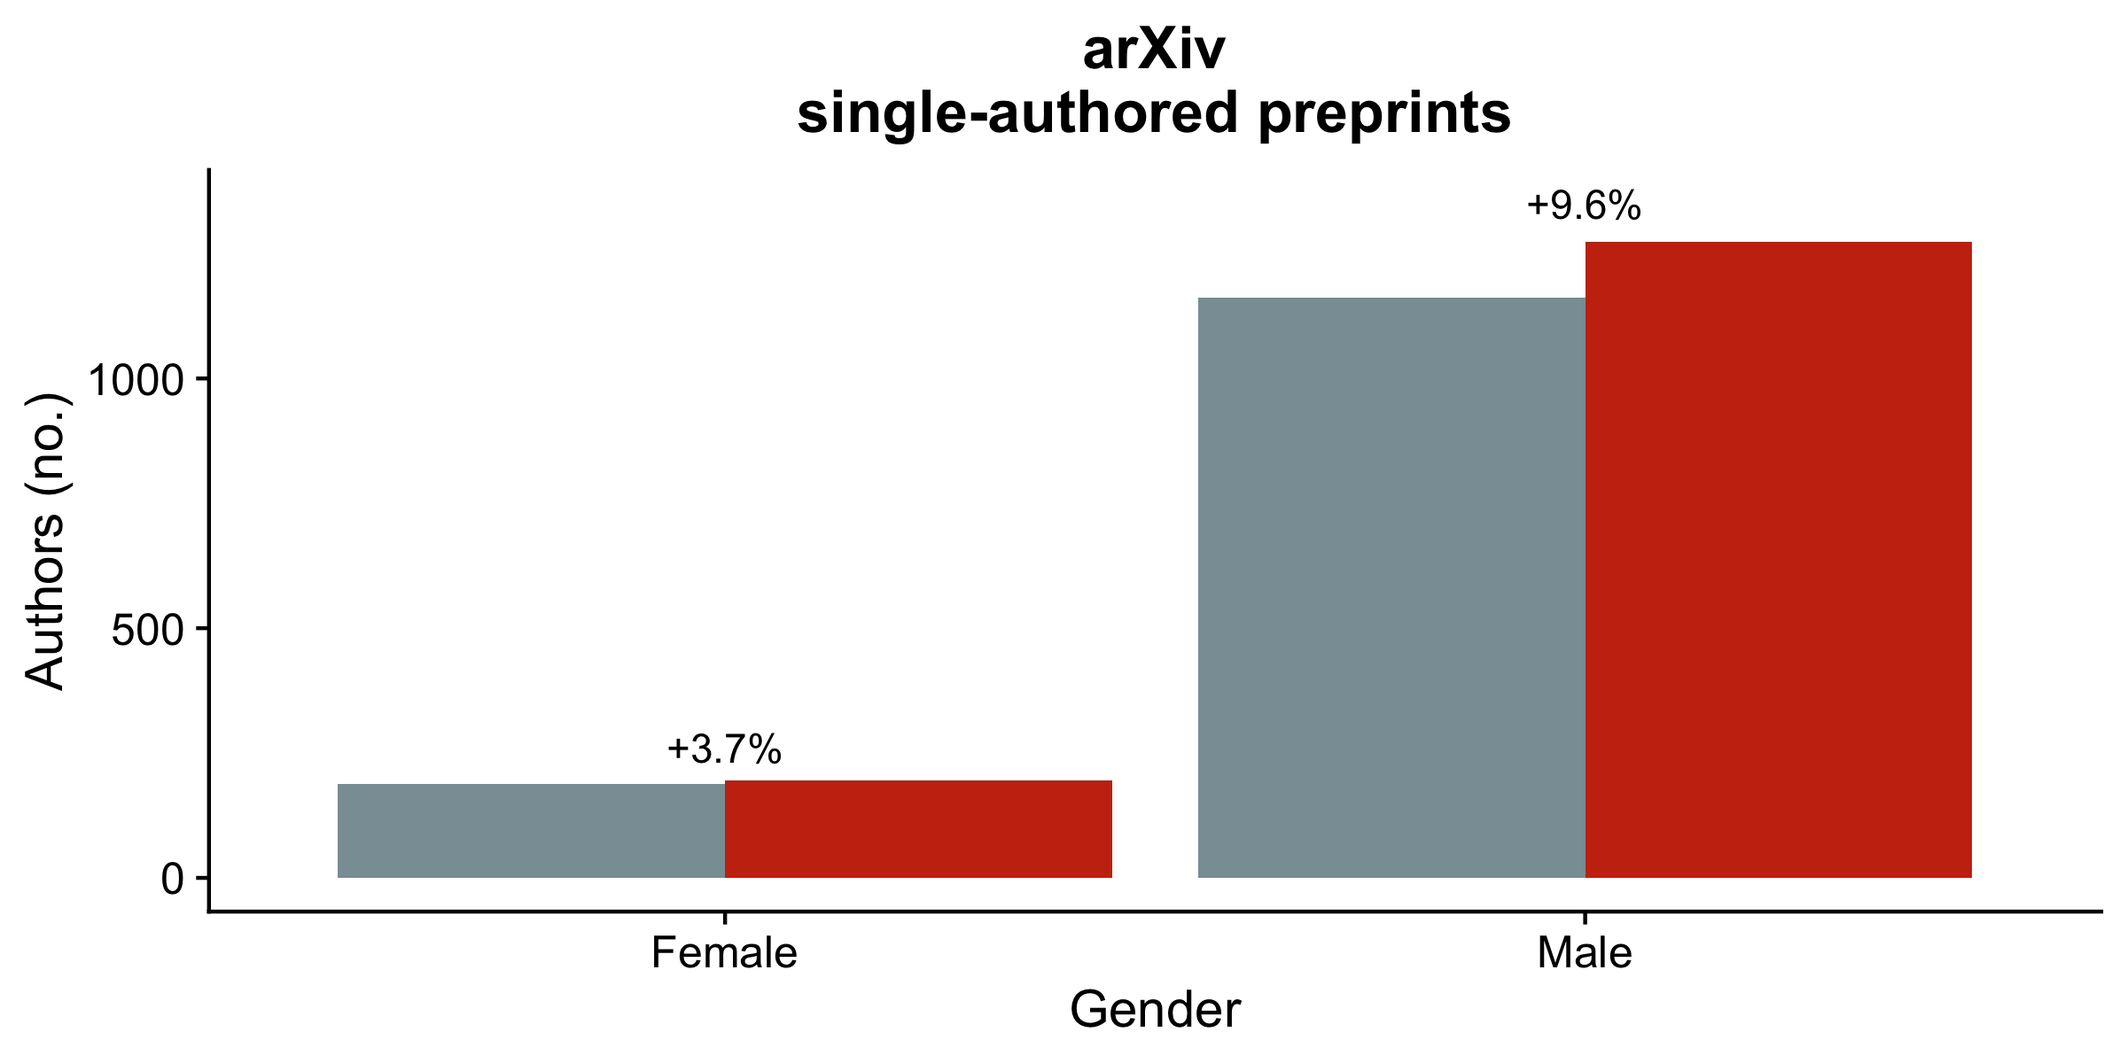
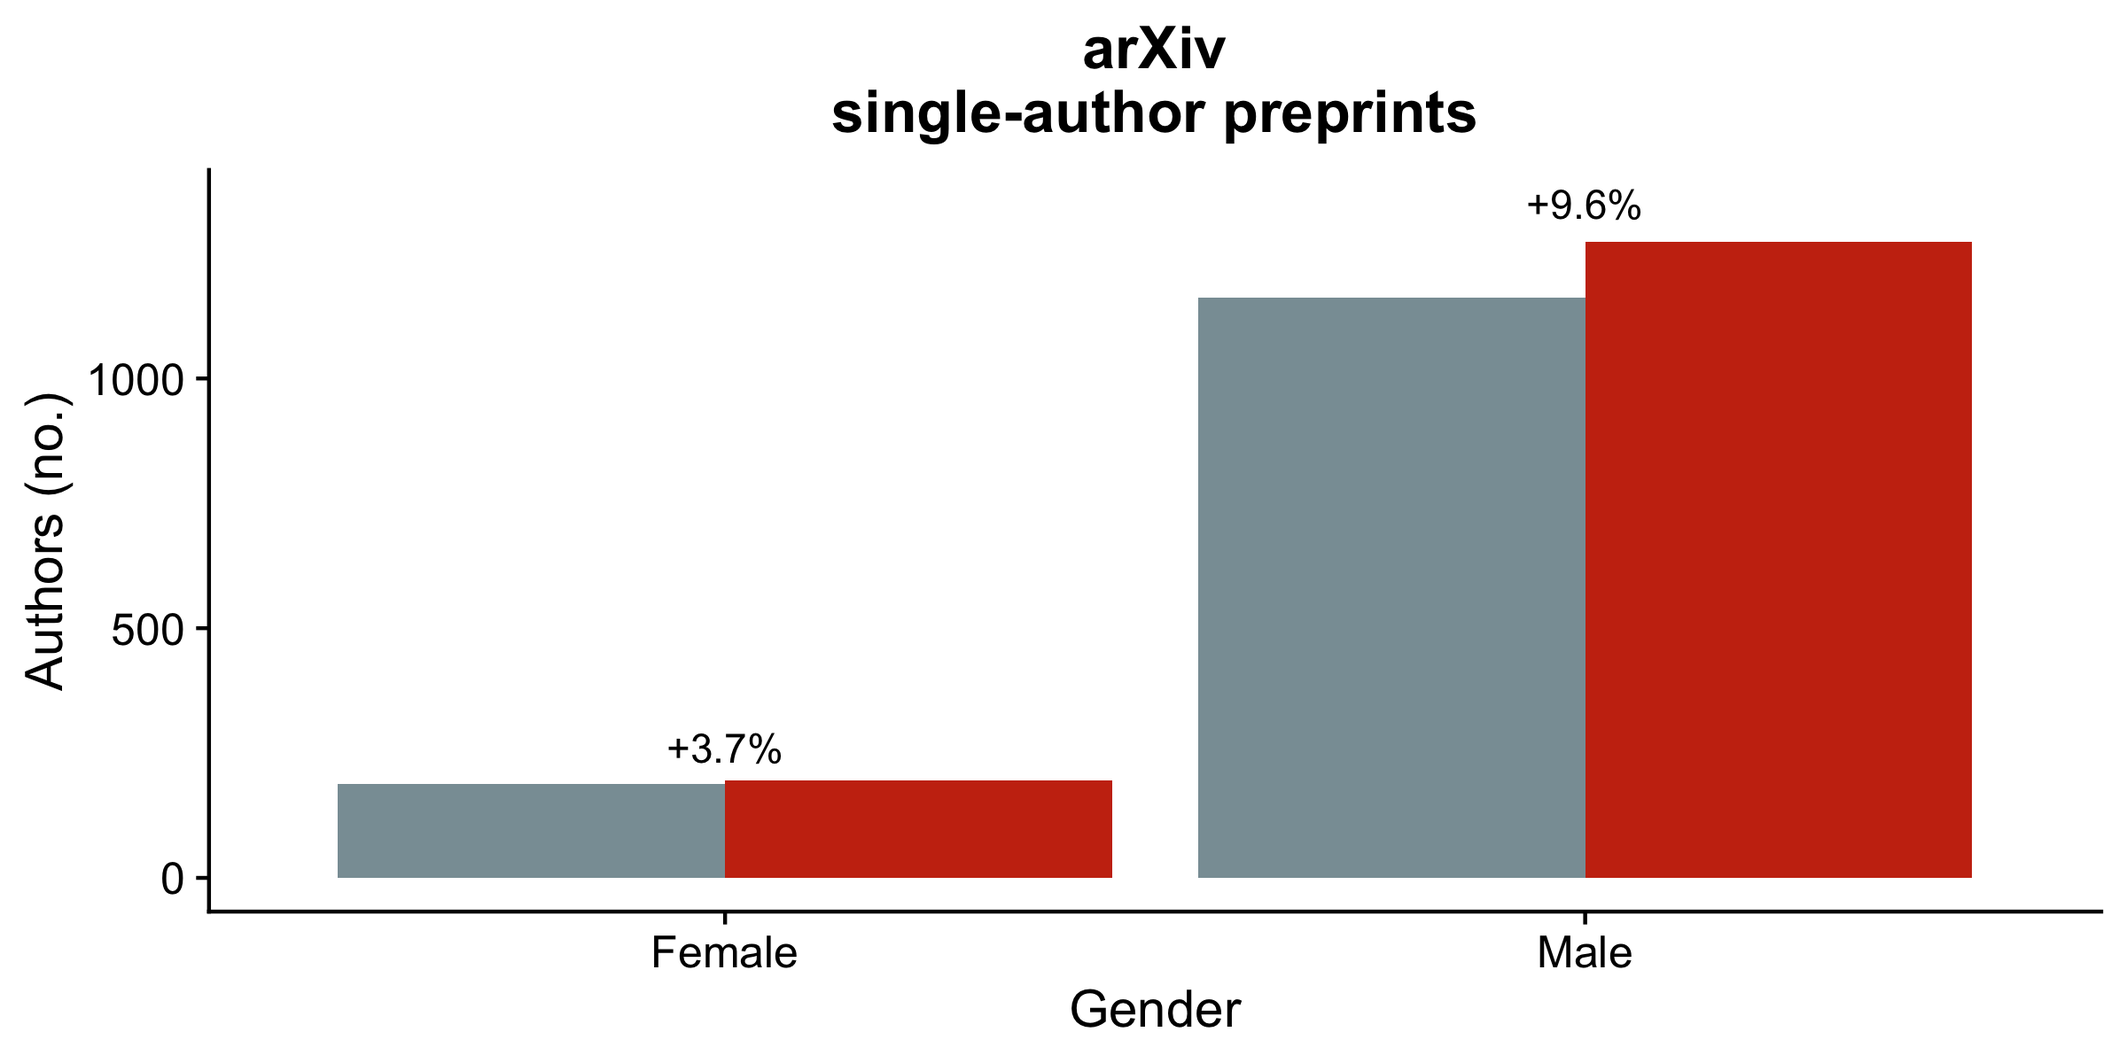
Commit from RStudio

Changed region(s): [[0.375, 0.0617, 0.7188, 0.1542]]

diff --git a/README.md b/README.md
@@ -22,7 +22,7 @@ I used these packages:
 
 ``` r
 #Load packages
-library(tidyverse) #includes ggplot2, dplyr, readr, stringr, 
+library(tidyverse) #includes ggplot2, dplyr, readr, stringr
 library(knitr)
 library(cowplot)
 library(gender)
@@ -81,7 +81,7 @@ df.2020 <- read.csv("Data/arxiv_2020_data.csv") #Read in data
 df.2019 <- read.csv("Data/arxiv_2019_data.csv")
 df.full <- rbind(df.2019, df.2020) #Combine in one dataframe
 
-#Next combine data for month-by-month comparison
+#Next combine data for early 2020 comparison
 df.early2020 <- read.csv("Data/arxiv_early2020_data.csv")
 df.update <- read.csv("Data/arxiv_update2020_data.csv")
 df.update.2 <- read.csv("Data/arxiv_update2020_2_data.csv")
@@ -89,11 +89,11 @@ df.all2020 <- rbind(df.2020, df.early2020, df.update, df.update.2) #Early 2020 d
 
 split.names <- function(x){strsplit(as.character(x), "|", fixed=TRUE)} #Function to split strings of author names
 
-#For the year over year dataset
+#For the year-over-year dataset
 df.full$split.names <- lapply(df.full$authors, split.names) #Apply function
 
 all_first_names <- word(unlist(df.full$split.names),1) #Make a list of all author first names
-gender <- gender(all_first_names, method = "ssa") #Assign gender
+gender <- gender(all_first_names, method = "ssa") #Predict gender
 gender <- unique(gender[ , c(1,2,4)]) #Keep only unique names
 
 #This loop is an inelegant way of counting the number of male and female authors for each paper
@@ -109,7 +109,7 @@ for(i in 1:length(df.full$authors)){
 df.full.output <- as.data.frame(apply(df.full,2,as.character)) 
 write.csv(df.full.output, "Data/arxiv_full_gender.csv") #Save data
 
-#Same for the month-over-month dataset for early 2020
+#Same for the early 2020 dataset
 df.all2020$split.names <- lapply(df.all2020$authors, split.names)
 
 tmp <- NULL
@@ -129,7 +129,8 @@ df.all2020.output <- as.data.frame(apply(df.all2020,2,as.character))
 write.csv(df.all2020.output, "Data/arxiv_all2020_gender.csv") #Save data
 ```
 
-Next, I calculated some summary statistics for the arXiv dataset.
+Next, I calculated some summary statistics for the arXiv dataset I
+assembled.
 
 ``` r
 df.full <- read.csv("Data/arxiv_full_gender.csv") #Read in data
@@ -147,24 +148,29 @@ all.arxiv <- all.arxiv[!duplicated(all.arxiv), ] #Remove duplicates
 total.preprints <- length(all.arxiv$id) #Total number of preprints
 total.authors <- sum(all.arxiv$author.n) #Total number of authors
 total.authors.with.gender <- sum(all.arxiv$male.n+all.arxiv$female.n) #Total number of authors with gender inferred
-per.gender <- round(total.authors.with.gender/total.authors*100, 1) #Percent of authors with gender
+per.gender <- round((total.authors.with.gender/total.authors)*100, 1) #Percent of authors with gender
 
-year.arxiv.preprints <- length(df.full$"id") #Preprints for year-over-year comparison
+year.arxiv.preprints <- length(df.full$"id") #Total number of preprints for year-over-year comparison
 year.arxiv.authors <- sum(df.full[, "male.n"]+df.full[, "female.n"]) #Authors with gender inferred for year-over-year comparison
 ```
 
 There are 83118 preprints in the full arXiv dataset, with a total of
 399769 non-unique authors. I inferred the gender of 192332 authors, or
-48.1%, with the rest omitted from subsequent analyses.
+48.1%, with the rest omitted from subsequent analyses. This a lower
+success rate for predicting author gender for the arXiv dataset than for
+the bioRxiv dataset (see below), reflecting the fact that arXiv
+preprints are more likely to list large consortia as authors (e.g., CMS
+Collaboration), have authors who provide only first initials, or have
+authors who have names not in the U.S. Social Security names database.
 
 For just the comparison of March 15-April 15, 2020 with the same dates
 in 2019, there are 28711 arXiv preprints with 67309 authors for whom I
 inferred
 gender.
 
-### Total numbers of arXiv preprint authors in Mar/Apr 2020 compared to Mar/Apr 2019, by gender
+### Comparing arXiv preprint authors between Mar/Apr 2019 and Mar/Apr 2020, by gender
 
-How many male versus female authors of preprints were there in Mar/Apr,
+How many male versus female authors of preprints were there in Mar/Apr
 2020, compared to the same dates last year? Note: this is not the number
 of unique authors; it includes authors who submitted multiple
 preprints.
@@ -182,7 +188,7 @@ p1 <- ggplot(data=all.long, aes(fill=as.factor(year), y=number, x=Gender))+geom_
 p1 
 ```
 
-![](README_files/figure-gfm/Visualize%20data-1.png)<!-- -->
+![](README_files/figure-gfm/Visualize%20arXiv%20year-over-year%20data-1.png)<!-- -->
 
 arXiv preprint submissions are up overall, but the number of male
 authors is currently growing faster than the number of female authors.
@@ -195,18 +201,18 @@ The same data, but in tabular form:
 
 ``` r
 #Or in tabular form
-colnames(all.long) <- c("Year", "Gender", "Number of authors submitting arXiv preprints, by gender")
+colnames(all.long) <- c("Year", "Gender", "Number of authors submitting arXiv preprints in Mar/Apr, by gender")
 kable(all.long)
 ```
 
-| Year | Gender | Number of authors submitting arXiv preprints, by gender |
-| :--- | :----- | ------------------------------------------------------: |
-| 2019 | Female |                                                    6968 |
-| 2020 | Female |                                                    7157 |
-| 2019 | Male   |                                                   25768 |
-| 2020 | Male   |                                                   27416 |
+| Year | Gender | Number of authors submitting arXiv preprints in Mar/Apr, by gender |
+| :--- | :----- | -----------------------------------------------------------------: |
+| 2019 | Female |                                                               6968 |
+| 2020 | Female |                                                               7157 |
+| 2019 | Male   |                                                              25768 |
+| 2020 | Male   |                                                              27416 |
 
-### Numbers of single-authored arXiv preprints in Mar/Apr 2020 compared to Mar/Apr 2019, by gender
+### Comparing single-authored arXiv preprints between Mar/Apr 2019 and Mar/Apr 2020, by gender
 
 How many arXiv preprints were single-authored by a female versus a male
 academic in Mar/Apr, 2020, compared to the same dates last
@@ -219,8 +225,8 @@ sole.authors.t <- as.data.frame(t(sole.authors[,-1])) #Transpose
 colnames(sole.authors.t) <- c("2019", "2020") #Fix column names
 sole.authors.t$per.dif.1920 <- ((sole.authors.t$`2020`-sole.authors.t$`2019`)/(sole.authors.t$`2019`))*100 #Calculate percent change, 2020 over 2019
 
-#Make figure for sole-authored preprints
-p2 <- ggplot(data=sole.long, aes(fill=as.factor(year), y=number, x=Gender))+geom_bar(position="dodge", stat="identity")+theme_cowplot()+xlab("Gender")+ylab("Authors (no.)")+labs(fill="Year")+scale_fill_manual(values = wes_palette("Royal1"), labels=c("Mar/Apr 2019", "Mar/Apr 2020"))+ggtitle("arXiv\nsingle-authored preprints")+theme(legend.position = c(0.1, 0.9), legend.title = element_blank(), plot.title = element_text(hjust = 0.5))+ggplot2::annotate("text", x=c(1, 2),  y=c(260,1350), label = paste0("+", round(sole.authors.t$per.dif.1920[1:2], 1), "%"))+theme(legend.position="none")
+#Make figure for single-authored preprints
+p2 <- ggplot(data=sole.long, aes(fill=as.factor(year), y=number, x=Gender))+geom_bar(position="dodge", stat="identity")+theme_cowplot()+xlab("Gender")+ylab("Authors (no.)")+labs(fill="Year")+scale_fill_manual(values = wes_palette("Royal1"), labels=c("Mar/Apr 2019", "Mar/Apr 2020"))+ggtitle("arXiv\nsingle-author preprints")+theme(legend.position = c(0.1, 0.9), legend.title = element_blank(), plot.title = element_text(hjust = 0.5))+ggplot2::annotate("text", x=c(1, 2),  y=c(260,1350), label = paste0("+", round(sole.authors.t$per.dif.1920[1:2], 1), "%"))+theme(legend.position="none")
 p2
 ```
 
@@ -245,14 +251,15 @@ kable(sole.long)
 | 2019 | Female |                                                             188 |
 | 2020 | Female |                                                             195 |
 
-### Numbers of arXiv preprint submissions in months before and during COVID-19 pandemic, by gender
+### Comparing arXiv preprint submissions in the months before and during COVID-19 pandemic, by gender
 
 Next, I looked back over the months leading up to widespread
 stay-at-home orders and school and childcare closures that North
 Americans experienced beginning in late March or early April, 2020.
-(These measures were implemented to different degrees and on different
-dates in different parts of the
-world.)
+These measures were implemented to different degrees and on different
+dates in different parts of the world, but I assumed their effects would
+be most pronounced globally in the months of March and April,
+2020.
 
 ``` r
 start.date <- as.Date("2020-03-01") #Month WHO declared COVID-19 a pandemic
@@ -261,20 +268,43 @@ arxiv <- as.data.frame(ungroup(subset(df.all2020, as.Date(submitted) >= "2020-01
 arxiv.long <- gather(arxiv, gender, n, female.n:male.n) #Make wide data long
 arxiv.long$gender <- as.factor(arxiv.long$gender) #Make sure gender is a factor
 levels(arxiv.long$gender) <- c("Female", "Male") #Capitalize genders
-arxiv.t <- as.data.frame(t(arxiv[, -1]))
-colnames(arxiv.t) <- c("January 1-February 29, 2020", "March 1-April 30, 2020")
-arxiv.t$per <- ((arxiv.t$`March 1-April 30, 2020`-arxiv.t$`January 1-February 29, 2020`)/(arxiv.t$`January 1-February 29, 2020`))*100
-arxiv.long$per <- c(arxiv.t$per[1],arxiv.t$per[1],arxiv.t$per[2],arxiv.t$per[2])
-bump = 3000
-arxiv.long$y <- c((arxiv.long[2,3]+bump), (arxiv.long[2,3]+bump), (arxiv.long[4,3]+bump), (arxiv.long[4,3]+bump))
-arxiv.long$x <- c(1,1,2,2)
+arxiv.t <- as.data.frame(t(arxiv[, -1])) #Transpose
+colnames(arxiv.t) <- c("January 1-February 29, 2020", "March 1-April 30, 2020") #Fix column names
+arxiv.t$per <- ((arxiv.t$`March 1-April 30, 2020`-arxiv.t$`January 1-February 29, 2020`)/(arxiv.t$`January 1-February 29, 2020`))*100 #Calculate percent change
+arxiv.long$per <- c(arxiv.t$per[1],arxiv.t$per[1],arxiv.t$per[2],arxiv.t$per[2]) #Add percent change to long-format dataframe
+bump = 3000 #Set for figure annotatin
+arxiv.long$y <- c((arxiv.long[2,3]+bump), (arxiv.long[2,3]+bump), (arxiv.long[4,3]+bump), (arxiv.long[4,3]+bump)) #Y coordinates for figure text annotation
+arxiv.long$x <- c(1,1,2,2) #X coordinates for figure text annotation
 
 #Make figure
 p3 <- ggplot(data=arxiv.long, aes(fill=COVID, y=n, x=gender))+geom_bar(position="dodge", stat="identity")+theme_cowplot()+ggtitle("arXiv")+xlab("Gender")+ylab("Authors (no.)")+labs(fill="Gender")+theme(legend.position=c(0.07, 0.93), legend.title=element_blank(), plot.title = element_text(hjust = 0.5))+geom_text(aes(x=x,y=y, label=paste0("+", round(per), "%")))+scale_fill_manual(values = wes_palette("Royal1")[3:2], labels=c("Jan. 1 - Feb. 29, 2020", "Mar. 1 - Apr. 30, 2020"))
 p3
 ```
 
-![](README_files/figure-gfm/2020%20analysis-1.png)<!-- -->
+![](README_files/figure-gfm/Early%202020%20arXiv%20analysis-1.png)<!-- -->
+
+Again, during the pandemic, the number of male authors has grown faster
+than the number of female authors, both in absolute terms and as a
+percent change, although the difference in percent change is only ~1%.
+
+The same data, but in tabular form:
+
+``` r
+#Or in tabular form
+colnames(arxiv.long) <- c("Dates", "Gender", "Number of arXiv preprint authors by gender")
+kable(arxiv.long[,1:3])
+```
+
+| Dates                       | Gender | Number of arXiv preprint authors by gender |
+| :-------------------------- | :----- | -----------------------------------------: |
+| January 1-February 29, 2020 | Female |                                      11852 |
+| March 1-April 30, 2020      | Female |                                      14122 |
+| January 1-February 29, 2020 | Male   |                                      44993 |
+| March 1-April 30, 2020      | Male   |                                      54056 |
+
+Preprints had over 9000 more male authors during the pandemic than right
+before, while female authors increased by a little more than 2200 over
+the same period.
 
 ## bioRxiv submissions
 
@@ -284,9 +314,7 @@ for biology. I used the rbiorxiv package, see:
 Fraser, N (2020). rbiorxiv. R package,
 <https://github.com/nicholasmfraser/rbiorxiv>
 
-I scraped all records for January 1-April 22, 2020, and for March
-15-April 15, 2019, for comparison. I then updated with the data from
-April 22 to April 30, 2020.
+I scraped the same date ranges as for the arXiv analysis, above.
 
 ``` r
 #Not run
@@ -313,7 +341,7 @@ df.b.all2020 <- read.csv("Data/biorxiv_2020_data.csv")
 df.b.2020.update <- read.csv("Data/biorxiv_2020_update_data.csv")
 
 df.b.full <- rbind(df.b.2019, subset(df.b.all2020, as.Date(date) >= "2020-03-15" & as.Date(date) <= "2020-04-15")) #Make year comparison, subsetting 2020 data to just March 15 to April 15
-df.b.all2020 <- rbind(df.b.all2020, df.b.2020.update) #Make early 2020 datasett
+df.b.all2020 <- rbind(df.b.all2020, df.b.2020.update) #Make early 2020 dataset
 
 df.b.full$cor.author.first.name <- sapply(strsplit(as.character(df.b.full$author_corresponding), " "), head, 1) #Extract first names
 df.b.all2020$cor.author.first.name <- sapply(strsplit(as.character(df.b.all2020$author_corresponding), " "), head, 1) #Extract first names
@@ -321,14 +349,14 @@ df.b.all2020$cor.author.first.name <- sapply(strsplit(as.character(df.b.all2020$
 df.b.full$year <- as.factor(year(as.Date(df.b.full$date))) #Extract year
 df.b.all2020$year <- as.factor(year(as.Date(df.b.all2020$date)))
 
-#Assign gender for year-over-year dataset
+#Predict gender for year-over-year dataset
 gender <- NULL
 gender <- gender(df.b.full$cor.author.first.name, method = "ssa")
 gender <- unique(gender[ , c(1,2,4)])
 df.b.full <- merge(df.b.full, gender, by.x = "cor.author.first.name",  by.y ="name", all = TRUE)
 df.b.full <- df.b.full[!duplicated(df.b.full),] #Remove duplicated rows, if any
 
-#Assigng gender for early 2020 dataset
+#Predict gender for early 2020 dataset
 gender <- NULL
 gender <- gender(df.b.all2020$cor.author.first.name, method = "ssa")
 gender <- unique(gender[ , c(1,2,4)])
@@ -339,14 +367,13 @@ df.b.all2020 <- df.b.all2020[!duplicated(df.b.all2020),] #Remove duplicated rows
 Next I calculated some summary statistics for the bioRxiv dataset.
 
 ``` r
-all.biorxiv <- rbind(df.b.all2020, df.b.full)
-total.b.preprints <- length(all.biorxiv$doi)
-total.b.authors <- length(all.biorxiv$author_corresponding)
-total.b.authors.with.gender <- length(all.biorxiv[!is.na(all.biorxiv$gender), "gender"])
-per.b.gender <- round(total.b.authors.with.gender/total.b.authors*100, 1)
+all.biorxiv <- rbind(df.b.all2020, df.b.full) #Combine datasets
+total.b.preprints <- length(all.biorxiv$doi) #Total number of preprints
+total.b.authors.with.gender <- length(all.biorxiv[!is.na(all.biorxiv$gender), "gender"]) #Total number of authors with gender predicted
+per.b.gender <- round(total.b.authors.with.gender/total.b.preprints*100, 1) #Percent success
 
-year.biorxiv.preprints <- length(df.b.full[, "doi"])
-year.biorxiv.authors <- length(df.b.full[!is.na(df.b.full$gender), "gender"])
+year.biorxiv.preprints <- length(df.b.full[, "doi"]) #Preprints for just year-over-year comparison
+year.biorxiv.authors <- length(df.b.full[!is.na(df.b.full$gender), "gender"]) #Preprint authors with gender for year-over-year comparison
 ```
 
 There are 24188 preprints in the full bioRxiv dataset, each with a
@@ -359,7 +386,7 @@ in 2019, there are 7818 bioRxiv preprints with 6333 corresponding
 authors for whom I inferred
 gender.
 
-### Total numbers of bioRxiv preprint authors in Mar/Apr 2020 compared to Mar/Apr 2019, by gender
+### Comparing bioRxiv preprint authors between Mar/Apr 2019 and Mar/Apr 2020, by gender
 
 How many male and female corresponding authors were there on bioRxiv
 preprints between Mar/Apr 2019 and 2020?
@@ -405,23 +432,22 @@ the number of female corresponding authors of bioRxiv preprints, again
 both as a percent change and in absolute
 terms.
 
-### Numbers of bioRiv preprint submissions in months before and during COVID-19 pandemic, by gender
+### Comparing bioRxiv preprint submissions in the months before and during COVID-19 pandemic, by gender
 
 As for arXiv submissions, I also compared bioRxiv submissions across
 months for early
 2020.
 
 ``` r
-start.date <- as.Date("2020-03-01") #Month WHO declared COVID-19 a pandemic
 df.b.all2020$COVID <- ifelse(as.Date(df.b.all2020$date) < start.date, "January 1-February 29, 2020", "March 1-April 30, 2020") #Classify dates as COVID or not
 biorxiv <- as.data.frame(ungroup(subset(df.b.all2020, as.Date(date) >= "2020-01-01" & as.Date(date) <= "2020-04-30" & !is.na(gender)) %>% group_by(COVID,gender) %>% summarize(n=n()))) #Summarize by month
 biorxiv$gender <- as.factor(biorxiv$gender) #Make sure gender is a factor
 levels(biorxiv$gender) <- c("Female", "Male") #Capitalize genders
-biorxiv$per <- c(biorxiv[3,3]/biorxiv[1,3], biorxiv[4,3]/biorxiv[2,3],biorxiv[3,3]/biorxiv[1,3], biorxiv[4,3]/biorxiv[2,3])
-biorxiv$per <- biorxiv$per*100-100
-bump = 300
-biorxiv$y <- c((biorxiv[3,3]+bump), (biorxiv[4,3]+bump), (biorxiv[3,3]+bump), (biorxiv[4,3]+bump))
-biorxiv$x <- c(1,2,1,2)
+biorxiv$per <- c(biorxiv[3,3]/biorxiv[1,3], biorxiv[4,3]/biorxiv[2,3],biorxiv[3,3]/biorxiv[1,3], biorxiv[4,3]/biorxiv[2,3]) #Calculate percent change
+biorxiv$per <- biorxiv$per*100-100 #Make it actually a percent
+bump = 300 #For figure annotation
+biorxiv$y <- c((biorxiv[3,3]+bump), (biorxiv[4,3]+bump), (biorxiv[3,3]+bump), (biorxiv[4,3]+bump)) #y coordinates for figure text
+biorxiv$x <- c(1,2,1,2) #x coodinates for figure textt
 
 #Make figure
 p6 <- ggplot(data=biorxiv, aes(fill=COVID, y=n, x=gender))+geom_bar(position="dodge", stat="identity")+theme_cowplot()+ggtitle("bioRxiv")+xlab("Gender")+ylab("Authors (no.)")+scale_fill_manual(values = wes_palette("Royal1")[3:2])+theme(legend.title=element_blank(), legend.position="none", plot.title = element_text(hjust = 0.5))+geom_text(aes(x=x,y=y, label=paste0("+", round(per), "%")))
@@ -434,11 +460,26 @@ p6
 p7 <- plot_grid(p3, p6, nrow=1) #Combine into part of a single figure
 ```
 
+The same data, but in tabular form:
+
+``` r
+#Or in tabular form
+colnames(biorxiv) <- c("Dates", "Gender", "Number of arXiv preprint authors by gender")
+kable(biorxiv[,1:3])
+```
+
+| Dates                       | Gender | Number of arXiv preprint authors by gender |
+| :-------------------------- | :----- | -----------------------------------------: |
+| January 1-February 29, 2020 | Female |                                       1761 |
+| January 1-February 29, 2020 | Male   |                                       4118 |
+| March 1-April 30, 2020      | Female |                                       2113 |
+| March 1-April 30, 2020      | Male   |                                       5053 |
+
 Finally, I put it all together in a single figure.
 
 ``` r
 p8 <- plot_grid(p5, p7, nrow=2)
-p8
+p8 #Omnibus figure
 ```
 
 ![](README_files/figure-gfm/Combine%20visualizations-1.png)<!-- -->
@@ -452,12 +493,14 @@ preprints describe research completed months ago, long before the
 COVID-19 pandemic. Furthermore, it is important to note that gender is
 not perfectly predictive of increased caregiving demands during the
 pandemic; some male academics are primary caregivers for their children,
-and many female academics do not have children at home. (And, of course,
+and many female academics do not have children at home. And, of course,
 children are not the only people who may need more care than usual
-during COVID-19.) I am assuming that gender differences in caregiving
-explain the patterns, but there may also be other mechanisms at work.
+during COVID-19. Furthermore, I am assuming that gender differences in
+caregiving explain the patterns, but there may also be other mechanisms
+at work. For example, perhaps there has been a surge in preprints from
+some fields, and those fields are more male-dominated.
 
-However, the trends in both preprint servers are consistent with the
+Nonetheless, the trends in both preprint servers are consistent with the
 hypothesis that the pandemic is disproportionately hurting the
 productivity of female scholars. How long this effect will persist, and
 what its downstream consequences might be for journal publications and
